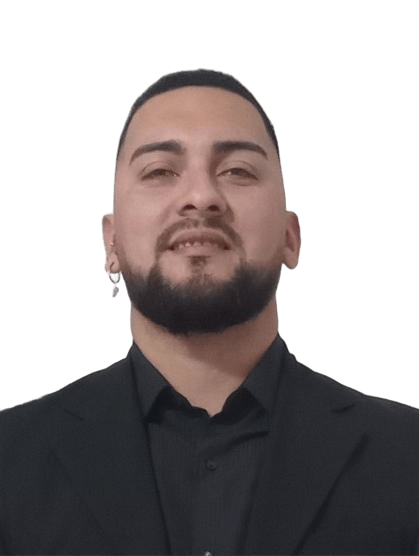
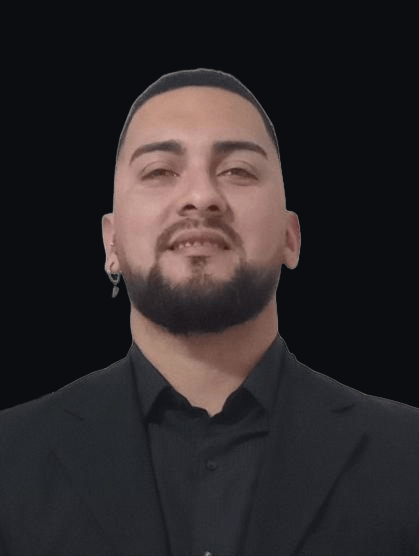
fix: foto de perfil con fondo grafito y leyenda social mas abierta
- mi-foto.png: fondo blanco removido (IA) y compuesto sobre el grafito
  del sitio, se funde con el hero en vez de mostrar un recuadro blanco
- og:description/twitter:description ya no mencionan solo GTresD/GTresIA,
  ahora hablan de "proyectos propios en producción" en general

diff --git a/index.html b/index.html
@@ -20,13 +20,13 @@
     <meta property="og:locale" content="es_AR">
     <meta property="og:url" content="https://jorge-gaston-murua.gtresia.com/">
     <meta property="og:title" content="Jorge Gastón Murúa | Desarrollador Web Fullstack">
-    <meta property="og:description" content="Construyo y mantengo GTresD y GTresIA en producción. Automatizaciones con n8n e IA.">
+    <meta property="og:description" content="Proyectos propios en producción: automatización con IA, e-commerce y más. Portfolio y contacto.">
     <meta property="og:image" content="https://jorge-gaston-murua.gtresia.com/mi-foto.png">
     <meta property="og:image:alt" content="Jorge Gastón Murúa, desarrollador web fullstack">
     <meta property="og:site_name" content="Jorge Gastón Murúa — Portfolio">
     <meta name="twitter:card" content="summary_large_image">
     <meta name="twitter:title" content="Jorge Gastón Murúa | Desarrollador Web Fullstack">
-    <meta name="twitter:description" content="Construyo y mantengo GTresD y GTresIA en producción. Automatizaciones con n8n e IA.">
+    <meta name="twitter:description" content="Proyectos propios en producción: automatización con IA, e-commerce y más. Portfolio y contacto.">
     <meta name="twitter:image" content="https://jorge-gaston-murua.gtresia.com/mi-foto.png">
     <link rel="preconnect" href="https://fonts.googleapis.com">
     <link rel="preconnect" href="https://fonts.gstatic.com" crossorigin>
